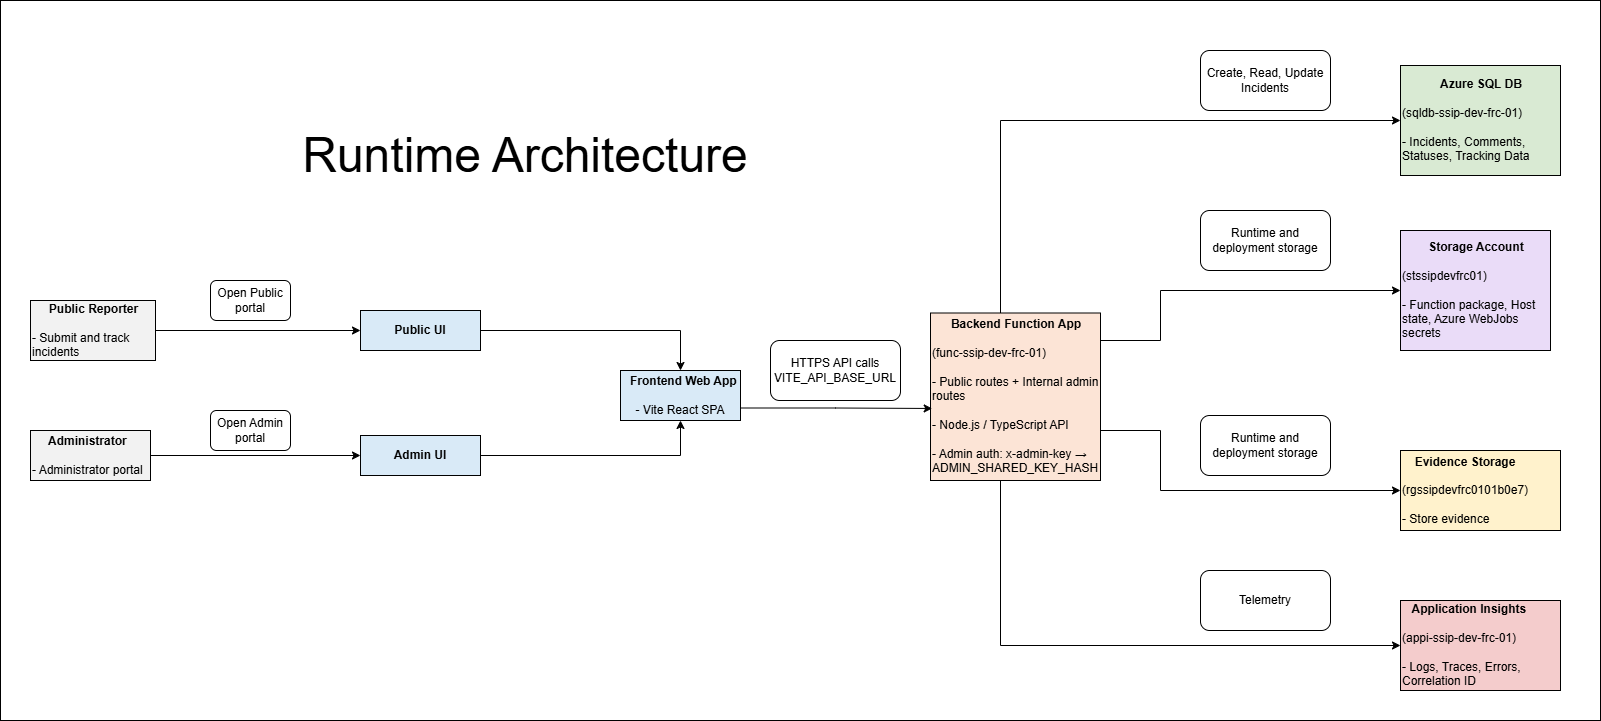
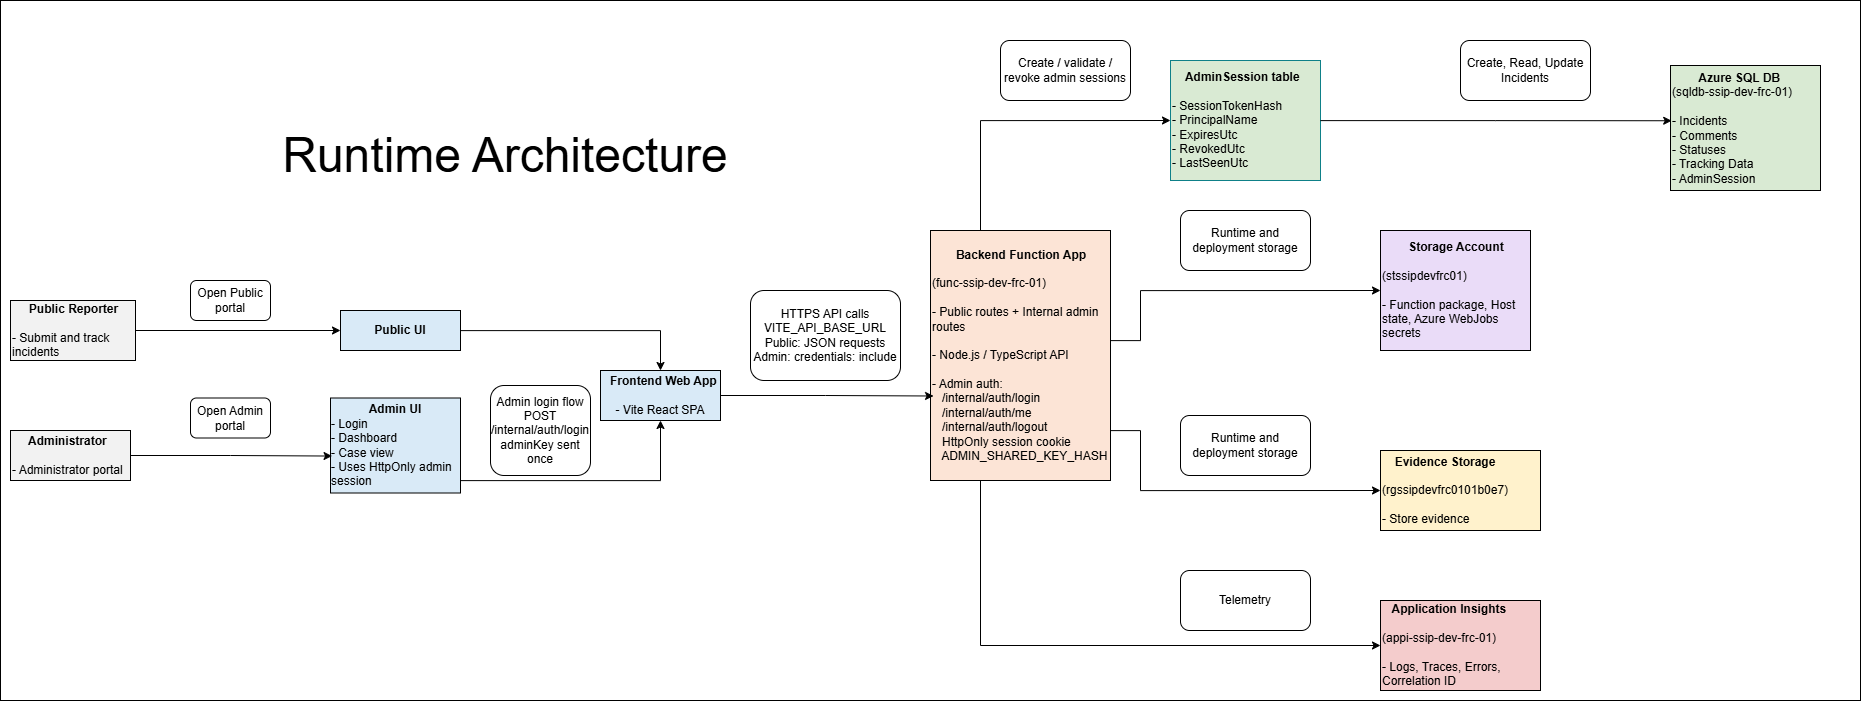
Milestone:Final SSIP  architecture design

diff --git a/src/frontend/src/features/admin/AdminLoginPage.tsx b/src/frontend/src/features/admin/AdminLoginPage.tsx
@@ -124,7 +124,7 @@ export function AdminLoginPage() {
             />
             <InfoTile
               title="No key storage"
-              text="The plaintext admin key is not stored in browser sessionStorage."
+              text="The plaintext admin key is not stored in browser."
             />
           </div>
         </div>
